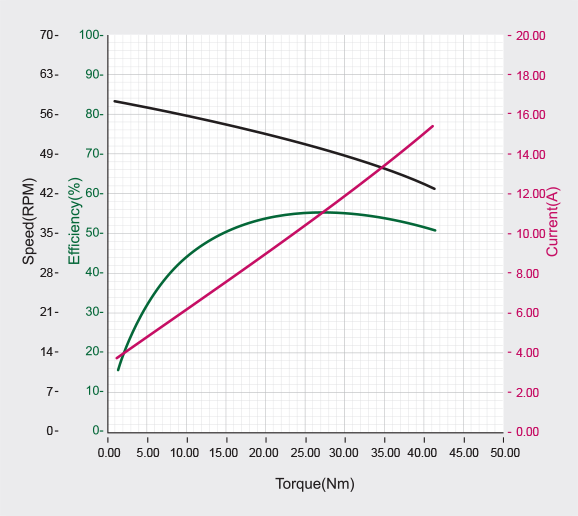
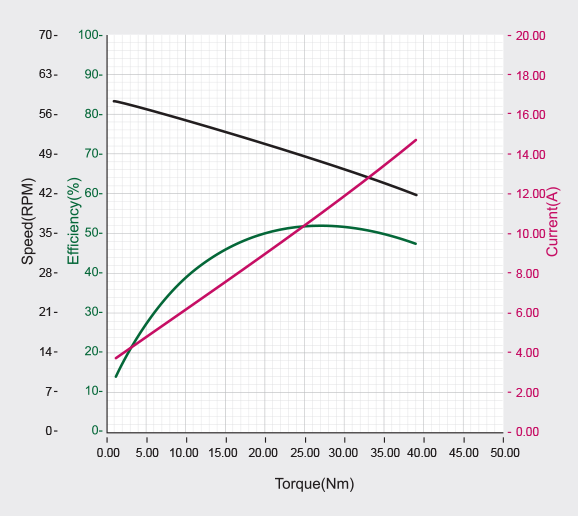
Update DY N-T Graph

diff --git a/docs/en/dxl/y/ym070-210-r051-rh.md b/docs/en/dxl/y/ym070-210-r051-rh.md
@@ -28,11 +28,9 @@ product_group: dxl_y_r
 
 ## [Performance Graph](#performance-graph)
 
-TBD
+![](/assets/images/dxl/y/ym070_210_r051_performance_graph.png)
 
 {% include en/dxl/note_performance_graph.md %}
-
-
 
 {% include en/dxl/y/y_control_table.md %}
 

diff --git a/docs/kr/dxl/y/ym070-210-r051-rh.md b/docs/kr/dxl/y/ym070-210-r051-rh.md
@@ -28,11 +28,9 @@ product_group: dxl_y_r
 
 ## [성능 그래프](#성능-그래프)
 
-TBD
+![](/assets/images/dxl/y/ym070_210_r099_performance_graph.png)
 
 {% include kr/dxl/note_performance_graph.md %}
-
-
 
 {% include kr/dxl/y/y_control_table.md %}
 

diff --git a/docs/en/dxl/y/ym080-230-r051-rh.md b/docs/en/dxl/y/ym080-230-r051-rh.md
@@ -28,7 +28,7 @@ product_group: dxl_y_r
 
 ## [Performance Graph](#performance-graph)
 
-TBD
+![](/assets/images/dxl/y/ym080_230_r051_performance_graph.png)
 
 {% include en/dxl/note_performance_graph.md %}
 

diff --git a/docs/kr/dxl/y/ym080-230-r051-rh.md b/docs/kr/dxl/y/ym080-230-r051-rh.md
@@ -28,7 +28,7 @@ product_group: dxl_y_r
 
 ## [성능 그래프](#성능-그래프)
 
-TBD
+![](/assets/images/dxl/y/ym080_230_r051_performance_graph.png)
 
 {% include kr/dxl/note_performance_graph.md %}
 

diff --git a/docs/en/dxl/y/ym070-210-m001-rh.md b/docs/en/dxl/y/ym070-210-m001-rh.md
@@ -32,8 +32,6 @@ product_group: dxl_y_m
 
 {% include en/dxl/note_performance_graph.md %}
 
-
-
 {% include en/dxl/y/y_control_table.md %}
 
 ## [Control Table Configuration](#control-table-configuration)

diff --git a/docs/kr/dxl/y/ym070-210-m001-rh.md b/docs/kr/dxl/y/ym070-210-m001-rh.md
@@ -32,8 +32,6 @@ product_group: dxl_y_m
 
 {% include kr/dxl/note_performance_graph.md %}
 
-
-
 {% include kr/dxl/y/y_control_table.md %}
 
 ## [컨트롤 테이블 구성](#컨트롤-테이블-구성)
